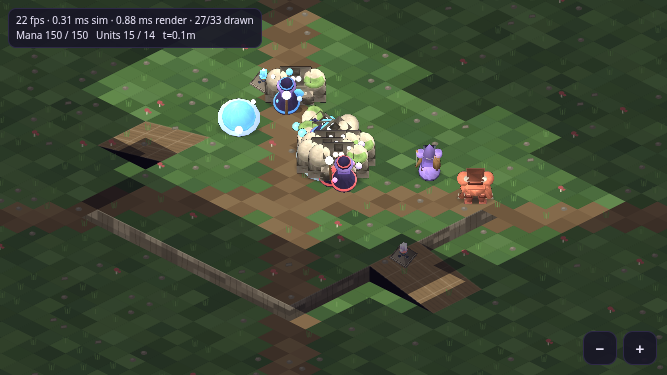
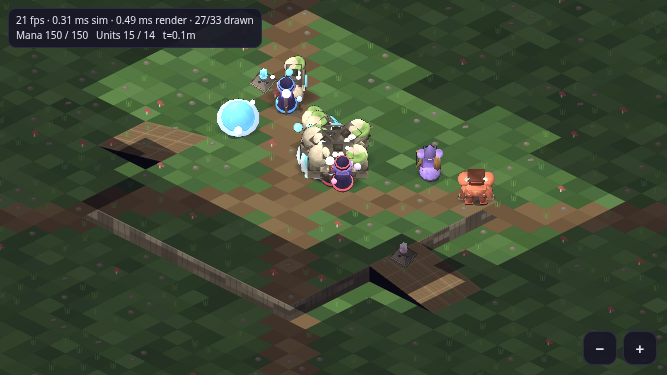
Storm Caster: narrow the robe and give the staff a gripping arm
The wide 7.4-radius robe hem read as a building base rather than a figure, and
the staff stood beside the unit with nothing holding it. Now: 5.6 hem, both
arms modelled, right hand closed on the shaft. Regenerated the pilot atlas,
proof sheets and in-match shots.

diff --git a/v2/art/pilot.ts b/v2/art/pilot.ts
@@ -270,14 +270,15 @@ function stoneGolem(): Assembly {
 function stormCaster(): Assembly {
   return {
     parts: [
-      // robe: a cone with a slight flare
-      part(tube([[0, 0, 0, 7.4], [0, 0, 3.0, 6.6], [0, 0, 9.0, 4.8], [0, 0, 14.0, 3.8]], 14), [0, 0, 0], PAL.robeDeep),
+      // robe: a cone with a slight flare. Kept NARROW (5.6 at the hem, not 7.4) because a wide cone
+      // base reads as a building, not a person — the earlier version was mistaken for a Sanctum.
+      part(tube([[0, 0, 0, 5.6], [0, 0, 3.0, 5.0], [0, 0, 9.0, 4.0], [0, 0, 14.0, 3.4]], 14), [0, 0, 0], PAL.robeDeep),
       // hem band (team)
-      part(prism(7.6, 1.4, 14), [0, 0, 1.2], PAL.trimTeam),
+      part(prism(5.8, 1.4, 14), [0, 0, 1.2], PAL.trimTeam),
       // torso / shoulders under the robe
-      part(bbox(7.0, 6.4, 5.6, 1.6, 0.8), [0, 0, 14.4], PAL.robe),
+      part(bbox(6.6, 5.8, 5.6, 1.6, 0.8), [0, 0, 14.4], PAL.robe),
       // high collar: a flared tube around the neck — the identifying shape
-      part(tube([[0, 0, 0, 4.2], [0, 0, 3.4, 5.6]], 12), [0, 0, 17.6], PAL.robeLit, { scale: { x: 1, y: 1, z: 1 } }),
+      part(tube([[0, 0, 0, 3.8], [0, 0, 3.4, 5.0]], 12), [0, 0, 17.6], PAL.robeLit),
       // head inside the collar
       part(sph(2.8, 10), [0, 0, 20.4], PAL.bone),
       part(sph(0.95, 6), [-1.2, -2.4, 20.6], PAL.eyeTeam),
@@ -285,19 +286,29 @@ function stormCaster(): Assembly {
       // pointed hat
       part(cone(4.4, 9.0, 9), [0, 0, 22.2], PAL.robeDeep, { rotX: 0.1 }),
       part(prism(4.2, 0.9, 9), [0, 0, 23.0], PAL.trimTeam),
-      // staff: tapered shaft with a claw holding a crystal
-      part(tube([[0, 0, 0, 0.85], [0.4, 0, 11.0, 0.7], [0.8, 0, 22.0, 0.55]], 7), [7.4, 0, 1.4], PAL.wood),
-      part(sph(2.6, 10), [8.4, 0, 25.0], PAL.crystalHot),
+      // ---- staff: shaft planted at the caster's side and GRIPPED by a visible arm. Without the arm
+      // the staff read as a separate object standing next to the unit.
+      part(tube([[0, 0, 0, 0.8], [0.3, 0, 11.0, 0.66], [0.6, 0, 22.0, 0.5]], 7), [6.2, 0, 1.4], PAL.wood),
+      part(sph(2.5, 10), [6.8, 0, 25.0], PAL.crystalHot),
       ...[-1, 1].map((s) =>
-        part(tube([[0, 0, 0, 0.42], [0.5 * s, 0, 2.4, 0.2]], 5), [8.4, 0, 23.2], PAL.brass, { rotZ: s * 0.5 }),
+        part(tube([[0, 0, 0, 0.4], [0.45 * s, 0, 2.3, 0.18]], 5), [6.8, 0, 23.2], PAL.brass, { rotZ: s * 0.5 }),
       ),
+      // right arm reaching out to grip the shaft (shoulder -> elbow -> hand)
+      part(
+        tube([[0, 0, 0, 1.5], [3.4, 0.2, -3.2, 1.15], [5.6, 0.1, -6.4, 0.9]], 8),
+        [1.2, 0, 17.4],
+        PAL.robe,
+      ),
+      part(sph(1.15, 8), [6.2, 0, 10.6], PAL.bone),
+      // left arm, hanging with a bracer
+      part(tube([[0, 0, 0, 1.4], [-2.6, 0.2, -4.0, 1.05], [-3.4, 0.2, -7.0, 0.85]], 8), [-1.4, 0, 17.2], PAL.robe),
       // ---- three orbiting orbs at different radii, giving the outline movement
-      part(sph(2.1, 9), [-8.6, -1.6, 21.4], PAL.crystal),
-      part(sph(1.6, 9), [5.2, -7.4, 15.0], PAL.aether),
-      part(sph(1.3, 9), [-3.0, 7.6, 26.2], PAL.crystalHot),
+      part(sph(2.1, 9), [-8.0, -1.6, 21.4], PAL.crystal),
+      part(sph(1.6, 9), [4.6, -7.0, 15.0], PAL.aether),
+      part(sph(1.3, 9), [-2.6, 7.2, 26.2], PAL.crystalHot),
       // a couple of floating rune shards
-      part(prism(0.9, 3.0, 4), [-5.4, 4.4, 12.6], PAL.aether, { rotZ: 0.4 }),
-      part(prism(0.7, 2.4, 4), [4.6, 5.2, 10.2], PAL.crystal, { rotZ: -0.3 }),
+      part(prism(0.9, 3.0, 4), [-5.0, 4.2, 12.6], PAL.aether, { rotZ: 0.4 }),
+      part(prism(0.7, 2.4, 4), [4.2, 4.8, 10.2], PAL.crystal, { rotZ: -0.3 }),
     ],
   };
 }
